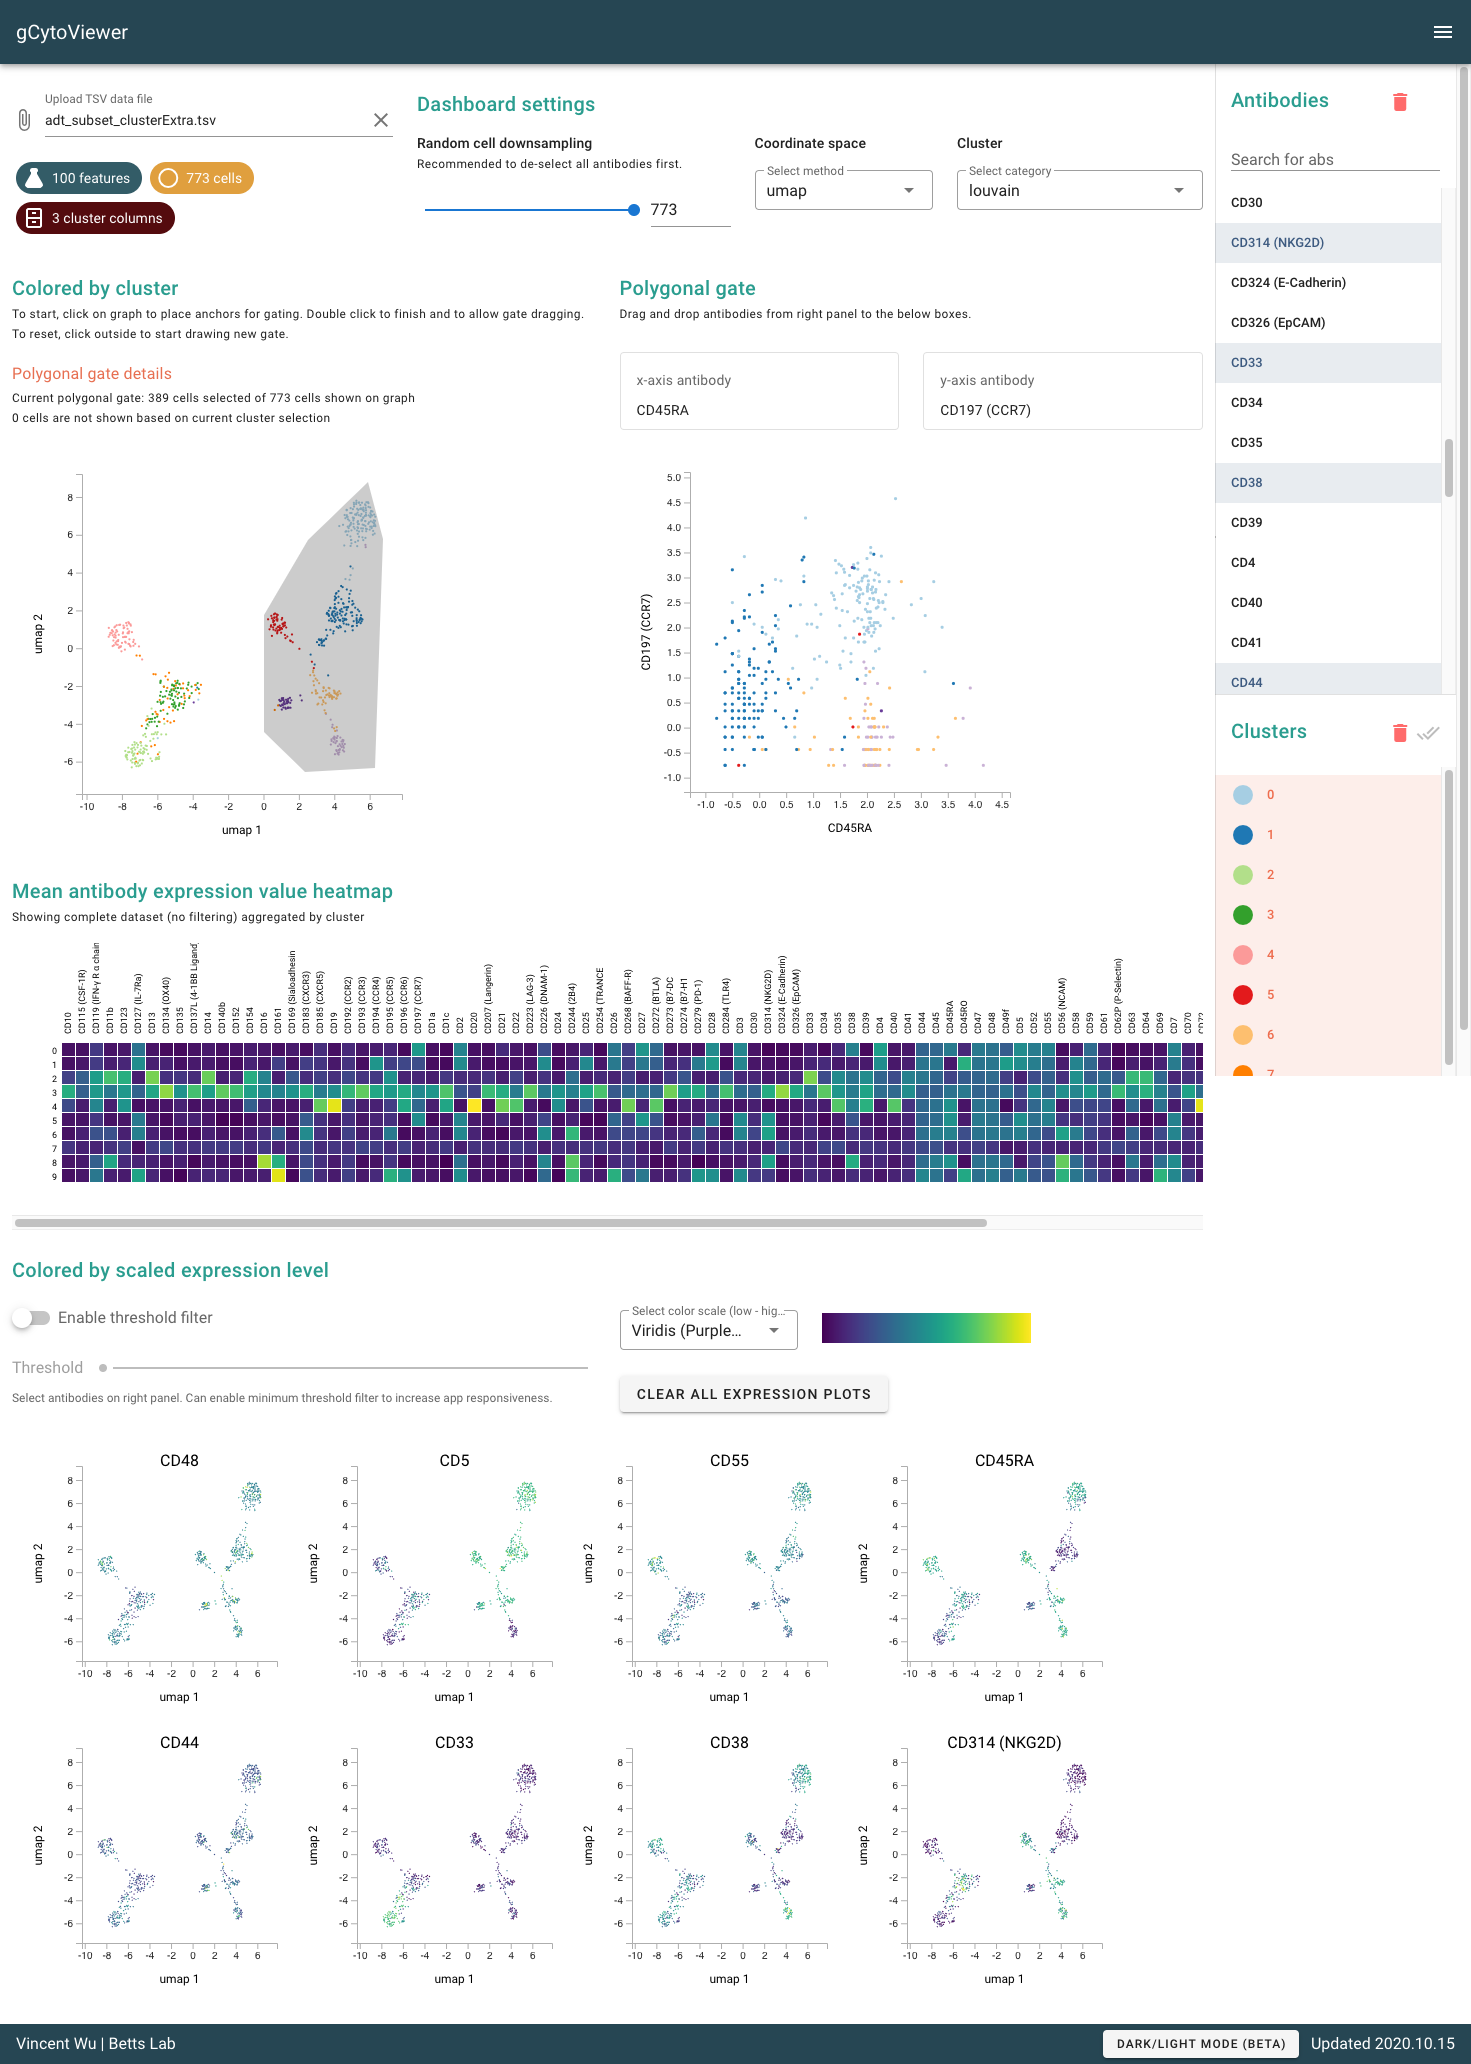
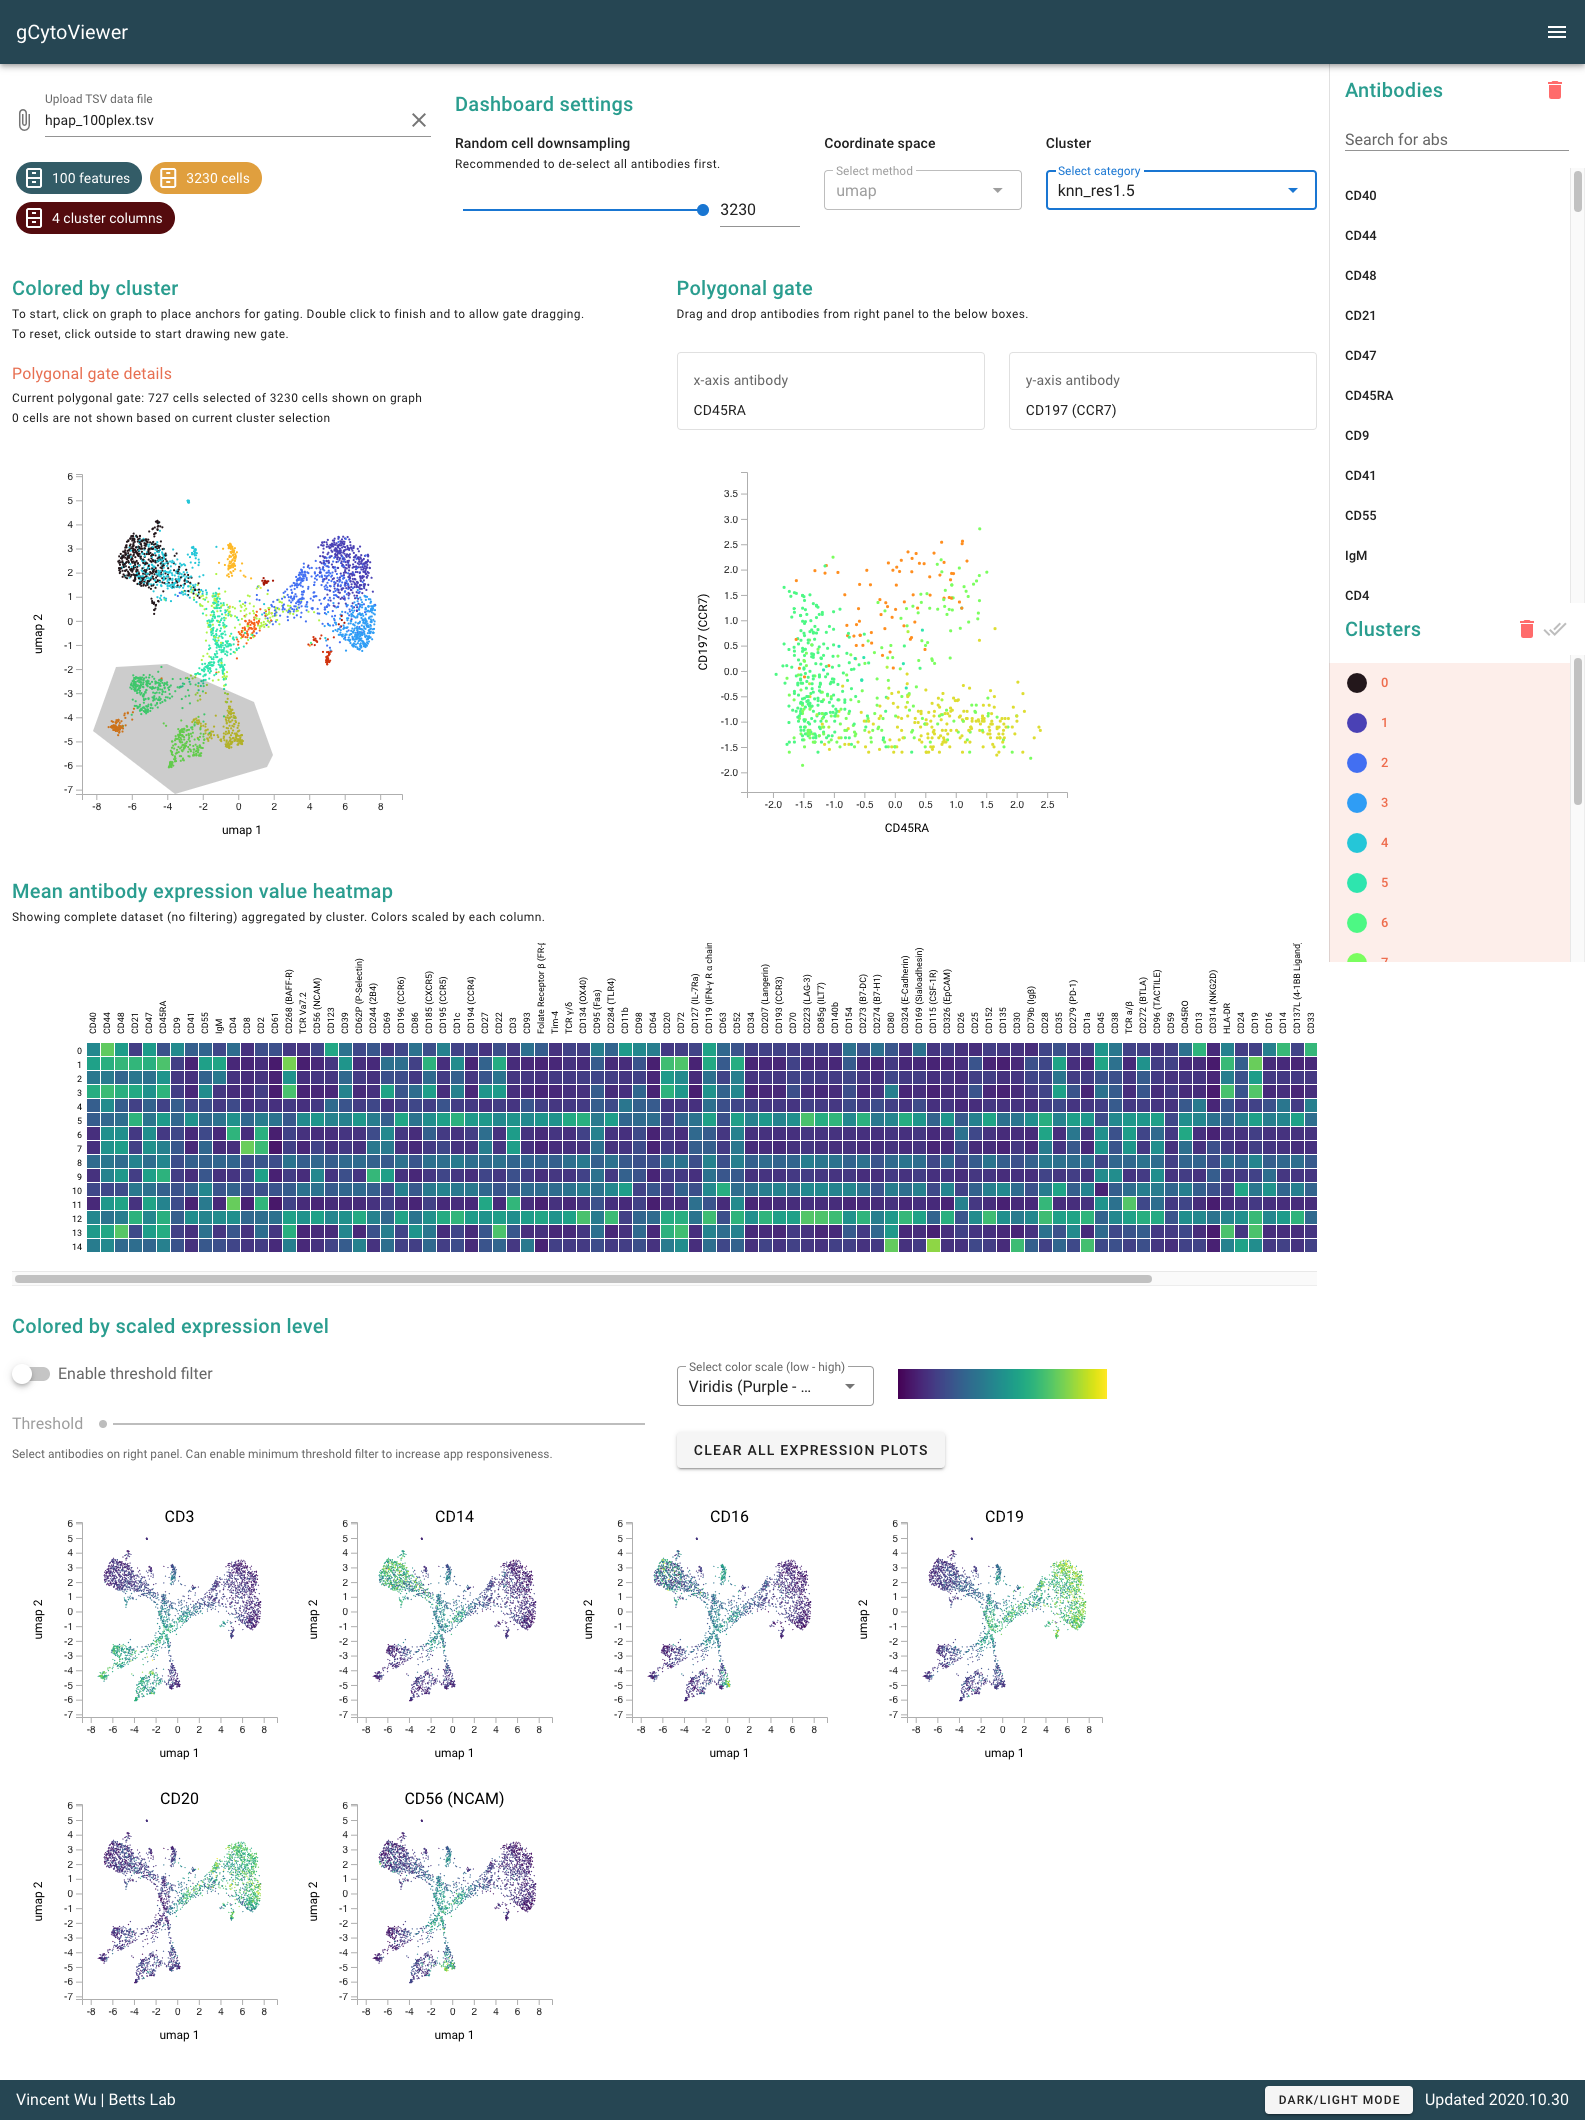
fix(#21 with cluster colors and updated image)

diff --git a/src/App.vue b/src/App.vue
@@ -27,14 +27,6 @@
                     <span>Remove all abs</span>
                   </v-tooltip>
               </div>
-
-              <!-- <v-row>
-                <v-col cols="8">
-                </v-col>
-                <v-col cols="4" v-show="abs.length != 0">
-
-                </v-col>
-              </v-row> -->
             </v-list-item-content>
           </v-list-item>
         </div>
@@ -309,8 +301,8 @@
 
         <v-row v-show="abs.length != 0" id="cluster-heatmap-section">
           <v-col cols="12" text-center justify-center>
-            <p class="title mb-0">Mean antibody expression value heatmap</p>
-            <p class="caption">Showing complete dataset (no filtering) aggregated by cluster. Colors scaled by each antibody.</p>
+            <p class="title mb-0">Mean expression value heatmap</p>
+            <p class="caption">Showing complete dataset (no filtering) aggregated by cluster. Colors scaled by each column.</p>
 
             <div id="clusterHeatmap"></div>
 
@@ -382,8 +374,8 @@
       <v-btn
         small
         @click="toggleDarkTheme"
-      >dark/light mode (beta)</v-btn>
-      <span class="ml-3">Updated 2020.10.15</span>
+      >dark/light mode</v-btn>
+      <span class="ml-3">Updated 2020.10.30</span>
     </v-footer>
   </v-app>
 </template>
@@ -594,8 +586,21 @@ export default {
         }
       }
 
+      function generateColors(dataDomain) {
+        const availColors = [];
+        for (let i = 0; i < dataDomain.length; i++) {
+          availColors.push(d3.interpolateTurbo(i / dataDomain.length));
+        }
+
+        return(availColors);
+      }
+
       for (const c in this.clusterCategoriesUniqVals) {
-        this.clusterCategoriesScales[c] = d3.scaleOrdinal(d3.schemePaired).domain(Object.keys(this.clusterCategoriesUniqVals[c]));
+        const clusterVals = Object.keys(this.clusterCategoriesUniqVals[c]);
+        const clusterValsRange = generateColors(clusterVals);
+
+        // this.clusterCategoriesScales[c] = d3.scaleOrdinal().domain(Object.keys(this.clusterCategoriesUniqVals[c]));
+        this.clusterCategoriesScales[c] = d3.scaleOrdinal().domain(Object.keys(this.clusterCategoriesUniqVals[c])).range(clusterValsRange);
         this.clusterCategoriesUniqCols[c] = _.map(Object.keys(this.clusterCategoriesUniqVals[c]), (x) => this.clusterCategoriesScales[c](x));
       }
 
@@ -823,7 +828,7 @@ export default {
       // console.log(temp);
 
       const heatmap = HeatmapPlot()
-        .width(14 * this.abs.length + 50)
+        .width(14 * this.abs.length + 90)
         .height(14 * Object.keys(this.clusterCategoriesUniqVals[this.clusterCategoriesSel]).length + 125)
         .tileSize(14)
         .xVar("ab")
@@ -1130,12 +1135,6 @@ export default {
 }
 .subtitle-1 {
   color: #e76f51;
-}
-.sidebar-icons {
-  /* position: absolute; */
-}
-.sidebar-icons:nth-child() {
-  /* display: inline-block; */
 }
 .axis line,
 .axis path {
